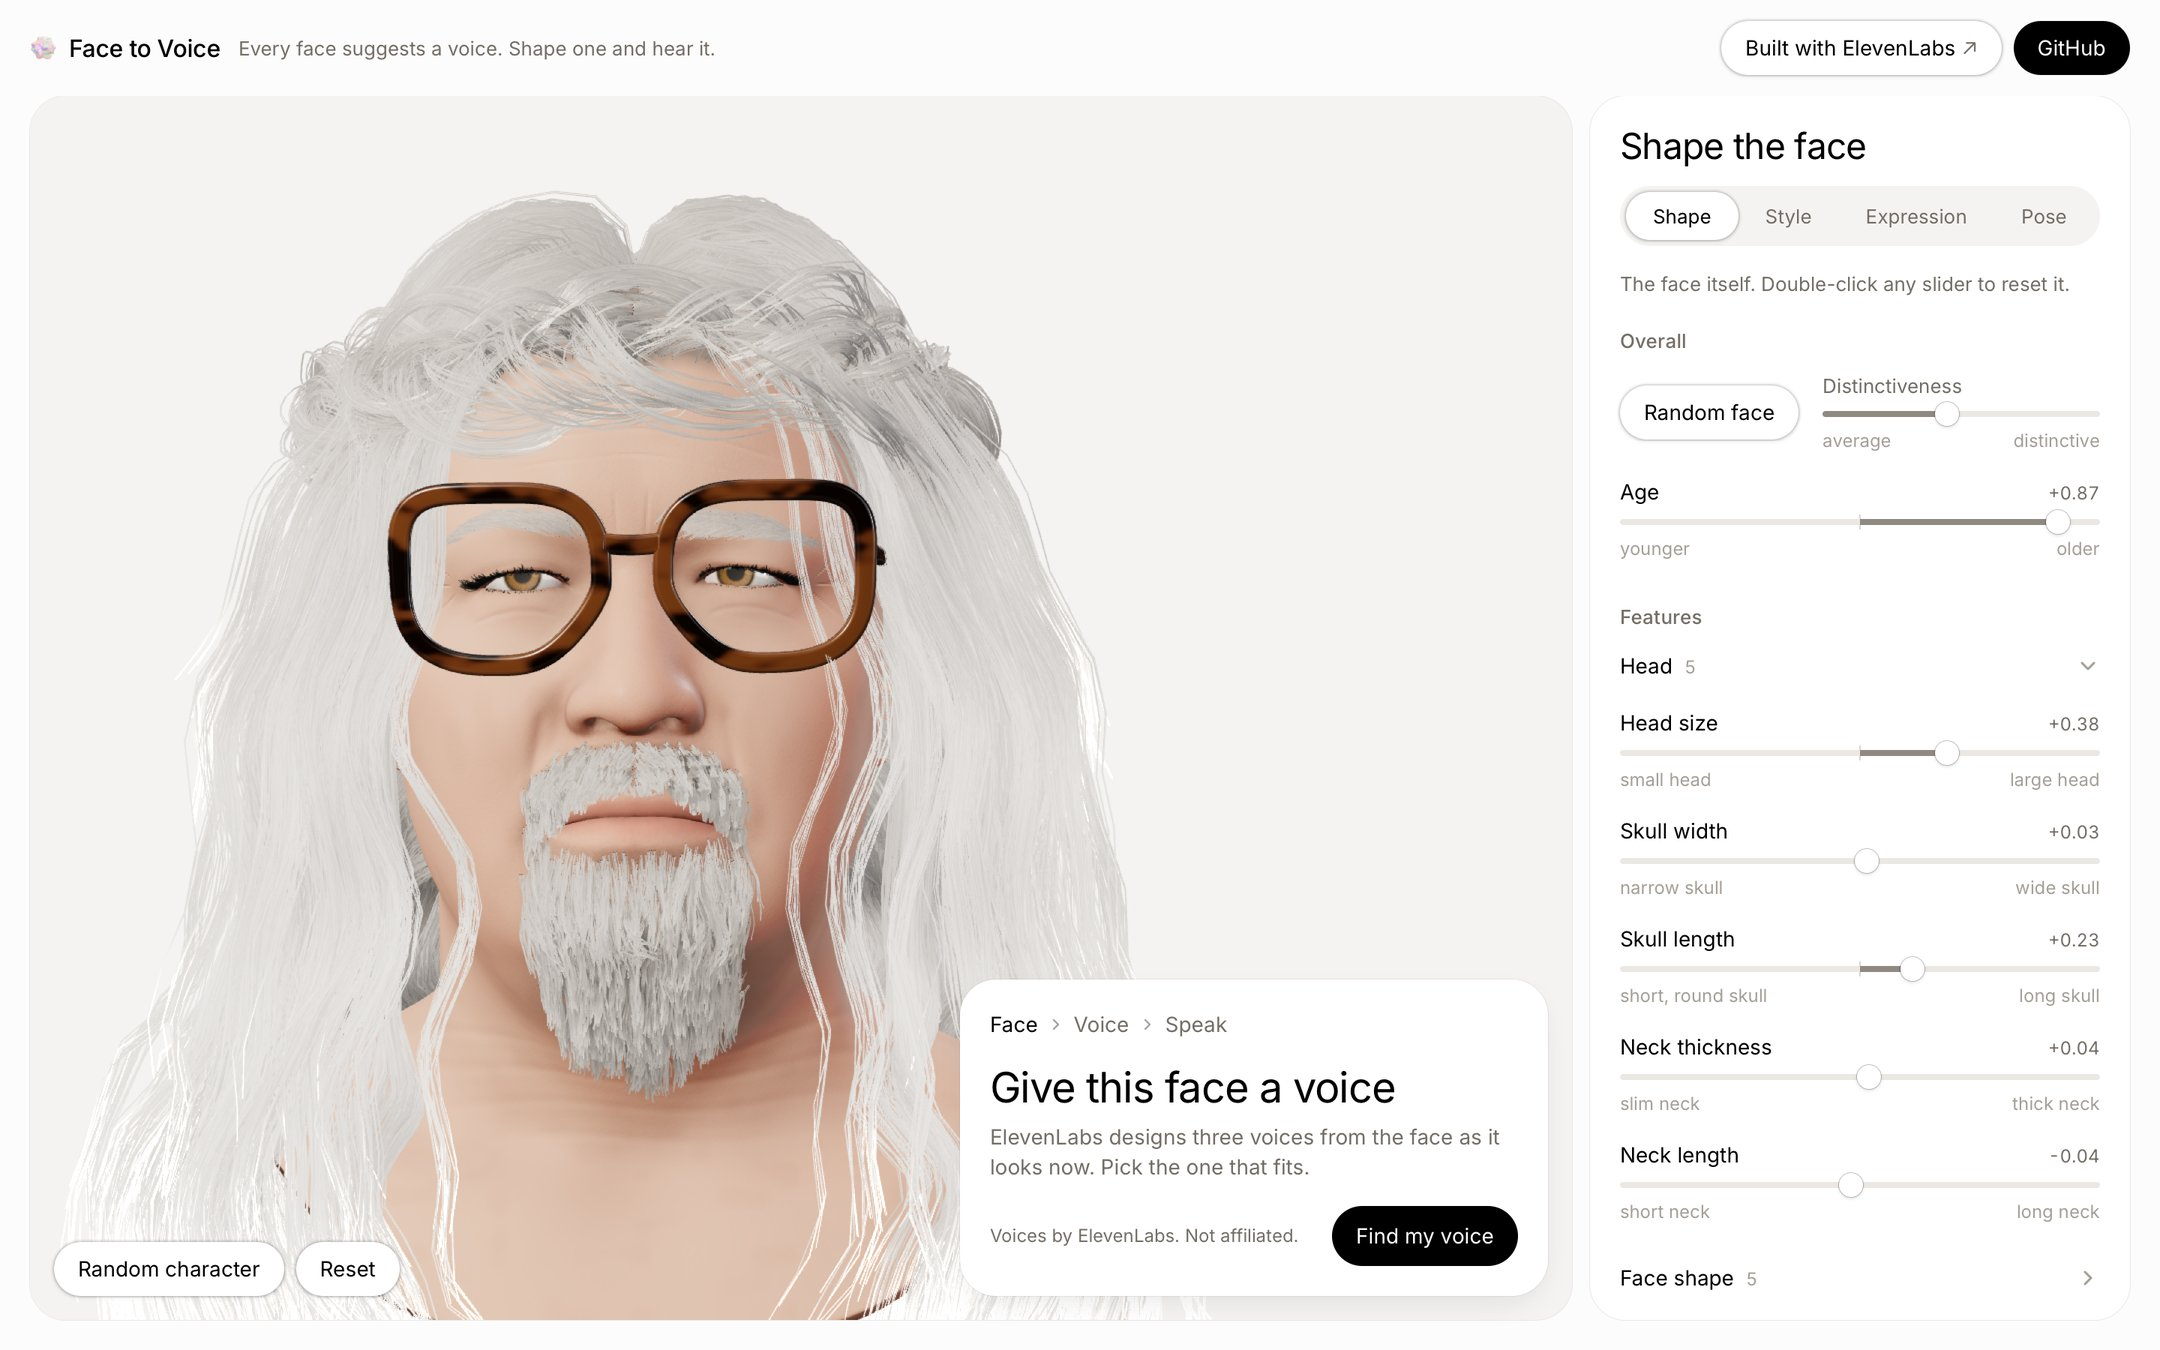
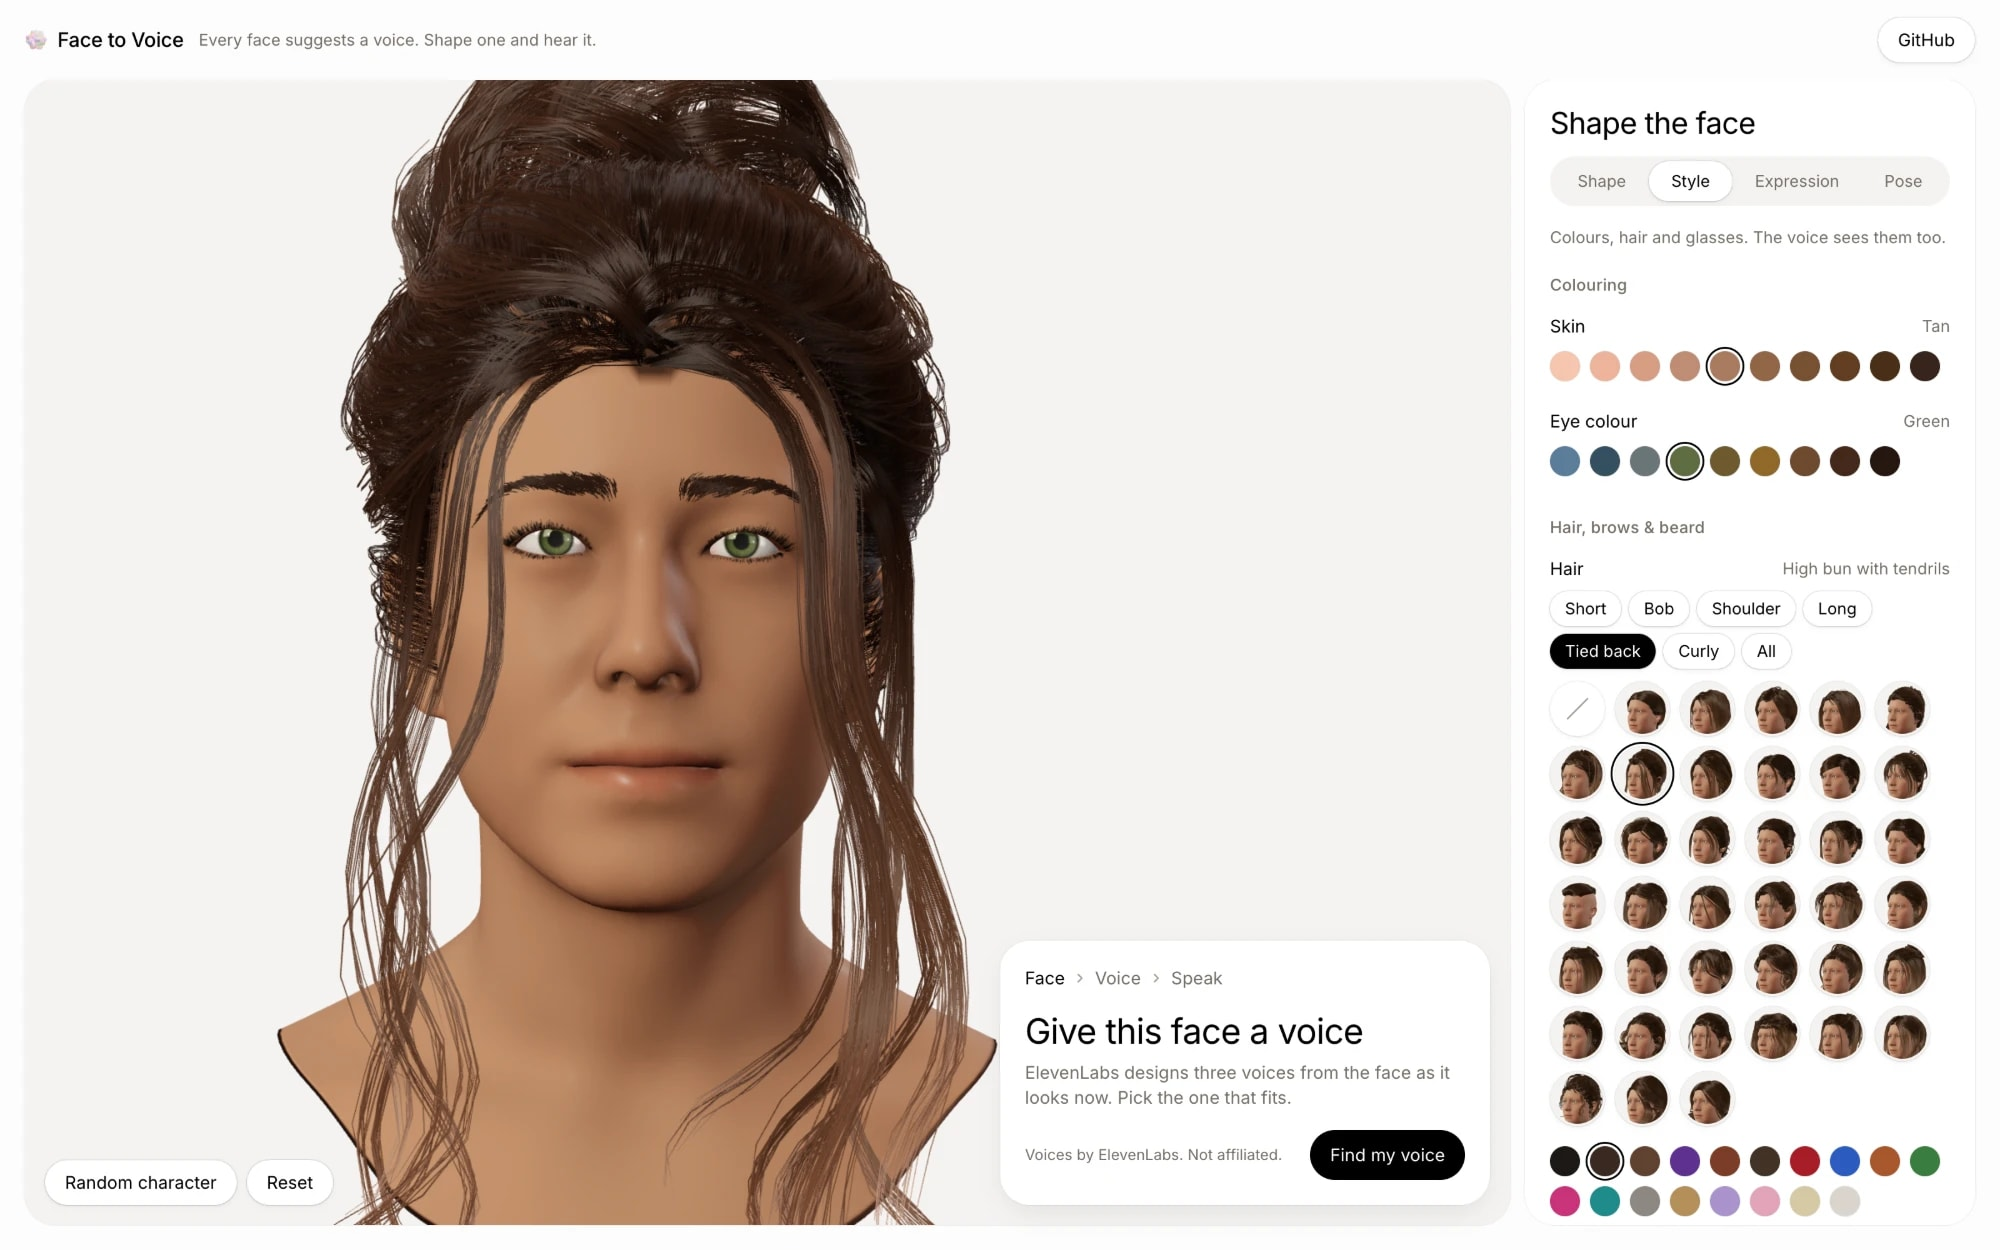
Update the README screenshot to the Style tab

diff --git a/README.md b/README.md
@@ -7,7 +7,7 @@
 Shape a realistic 3D head, style it, give it an expression, and hear the voice it suggests. Claude casts the
 character from the face, ElevenLabs designs three matching voices, and the head lip-syncs to every line it speaks.
 
-![Face to Voice: a styled character with its voice card](docs/images/face-to-voice.jpg)
+![Face to Voice: a character with a high bun, styled in the builder's Style tab](docs/images/face-to-voice.jpg)
 
 The head is Google's [GNM Head](https://github.com/google/GNM), a linear statistical model of the human head,
 exported to the browser as glTF morph targets. Everything on top of it (semantic sliders, a geometry limiter, strand
